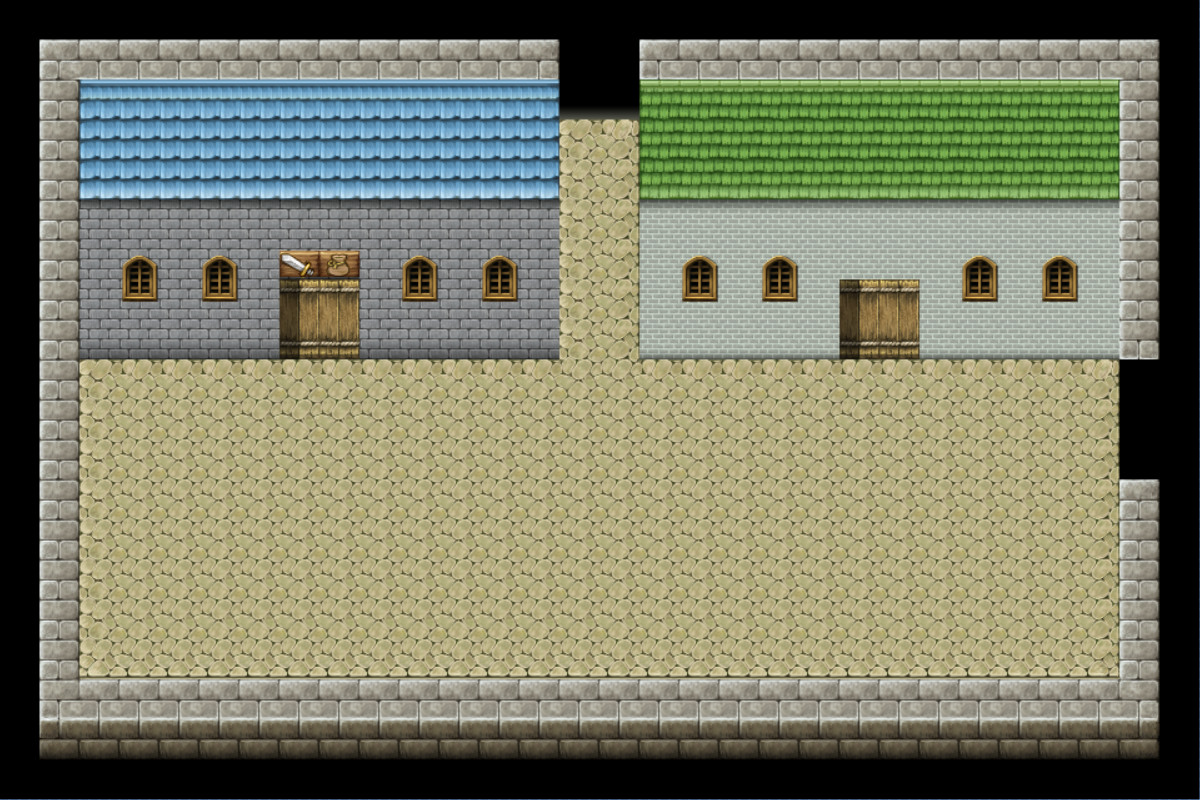
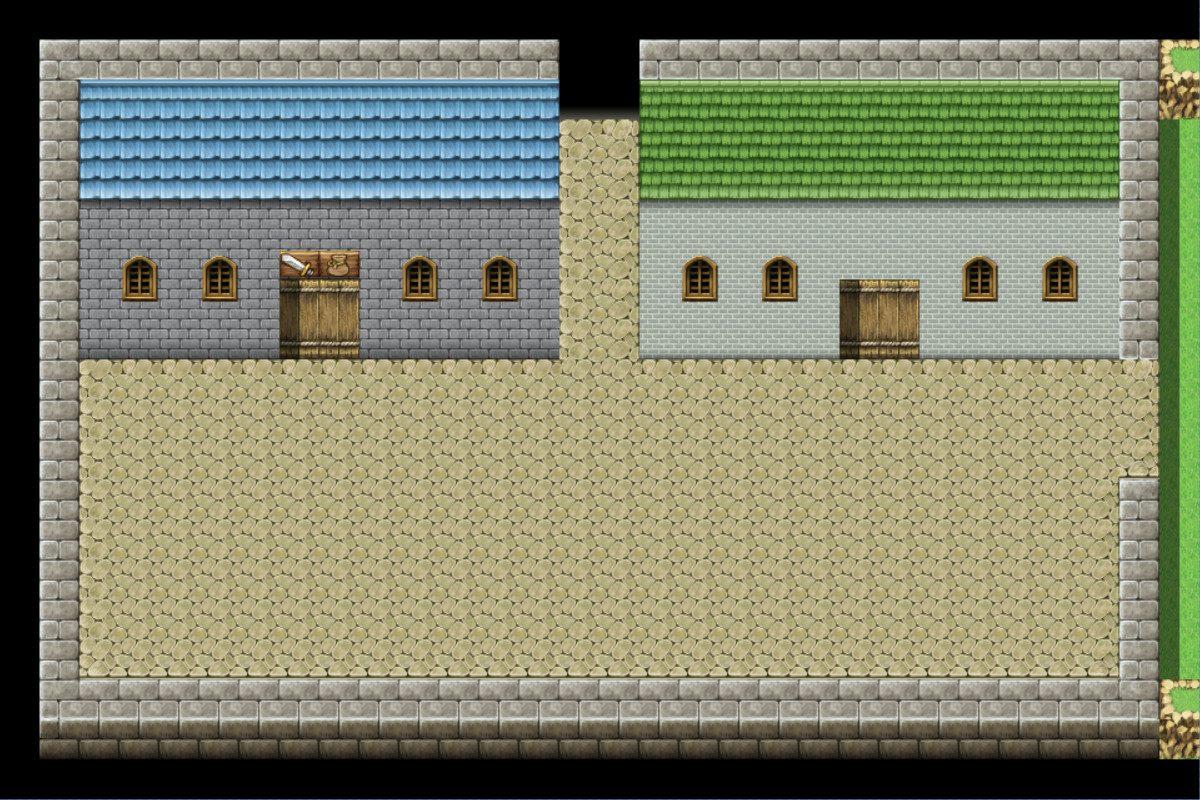
Added screen change

Changed region(s): [[0.925, 0.0312, 1.0, 0.9688]]

diff --git a/src/zeldiablo/Canvas.java b/src/zeldiablo/Canvas.java
@@ -59,7 +59,8 @@ public class Canvas extends JPanel implements Serializable {
     private boolean startScreen;
     private int startscreenCounter;
     World world;
-    boolean spawned, hunterfix;
+    boolean spawned;
+    InteractionObject tele1, tele2, tele3, tele4;
 
     /**
      * This constructor sets all the basics of the canvas, like size etc Then it
@@ -71,7 +72,7 @@ public class Canvas extends JPanel implements Serializable {
         size = new Dimension(1180, 780);
         setPreferredSize(size);
         imageDirectory = "images/";
-        bgPictureList = new String[]{"bg_matrix.jpg", "bg_town.jpg"};
+        bgPictureList = new String[]{"bg_matrix.jpg", "bg_town.jpg", "bg_arena.jpg", "bg_area1.jpg"};
         spriteList = new String[]{"dialogbox.png", "LevelUp.png", "inventory.png", "stats.png"};
         gameOver = false;
         gameoverCounter = 0;
@@ -256,6 +257,22 @@ public class Canvas extends JPanel implements Serializable {
 
     public void setStartscreenFalse() {
         startScreen = false;
+    }
+
+    public void setTeleporter1(InteractionObject tele) {
+        tele1 = tele;
+    }
+
+    public void setTeleporter2(InteractionObject tele) {
+        tele2 = tele;
+    }
+
+    public void setTeleporter3(InteractionObject tele) {
+        tele3 = tele;
+    }
+
+    public void setTeleporter4(InteractionObject tele) {
+        tele4 = tele;
     }
 
     /**
@@ -589,6 +606,11 @@ public class Canvas extends JPanel implements Serializable {
         chest1 = placeholderChest;
         chest2 = placeholderChest;
         chest3 = placeholderChest;
+        InteractionObject telePlaceholder = new InteractionObject(new Coordinates(-1000, -1000), 0, 0, "nothing", "Null");
+        tele1 = telePlaceholder;
+        tele2 = telePlaceholder;
+        tele3 = telePlaceholder;
+        tele4 = telePlaceholder;
     }
 
     /**
@@ -976,6 +998,19 @@ public class Canvas extends JPanel implements Serializable {
         }
     }
 
+    public void teleporterMethod() {
+        if (player.touches(tele1)) {
+//            System.out.println("tele1");
+            if (player.getMapID().equals("Zone_Town")) {
+                world.area1(this);
+            }
+            else if (player.getMapID().equals("Zone_Area1")) {
+                world.town(this);
+                player.setObjectPosition(new Coordinates(1060, 362));
+            }
+        }
+    }
+
     /**
      * This method holds all the methods that have to get called on every frame
      * (also known as tick) This method gets called every 20ms by the
@@ -984,6 +1019,7 @@ public class Canvas extends JPanel implements Serializable {
     private void doOnTick() {
 
         hitboxUpdate();
+        teleporterMethod();
         youShallNotPass();
         checkXP();
         player.levelUpAnimationFunction(player);
@@ -1425,6 +1461,11 @@ public class Canvas extends JPanel implements Serializable {
         drawInventory(g);
         drawLoot(g);
         drawStartMenu(g);
+
+        tele1.drawObjects(g);
+        tele2.drawObjects(g);
+        tele3.drawObjects(g);
+        tele4.drawObjects(g);
 
         if (getGameOver()) {
             Graphics2D g2d = (Graphics2D) g;

diff --git a/src/zeldiablo/World.java b/src/zeldiablo/World.java
@@ -60,5 +60,20 @@ public class World {
         canvas.getPlayer().setMapID("Zone_Town");
         canvas.createGameObjects();
         canvas.getPlayer().setObjectPosition(new Coordinates(600, 550));
+        canvas.setTeleporter1(new InteractionObject(new Coordinates(1120, 362), 40, 115, "nothing", "StartWeapon"));
+    }
+    
+    public void arena(Canvas canvas) {        
+        canvas.setBackground(2);
+        canvas.getPlayer().setMapID("Zone_Arena");        
+        canvas.createGameObjects();
+    }
+    
+    public void area1(Canvas canvas) {
+        canvas.setBackground(3);
+        canvas.getPlayer().setMapID("Zone_Area1");        
+        canvas.createGameObjects();
+        canvas.getPlayer().setObjectPosition(new Coordinates(80, 370));
+        canvas.setTeleporter1(new InteractionObject(new Coordinates(40, 362), 40, 115, "nothing", "StartWeapon"));
     }
 }

diff --git a/src/zeldiablo/InteractionObject.java b/src/zeldiablo/InteractionObject.java
@@ -67,11 +67,11 @@ public class InteractionObject extends GameObjects {
     @Override
     public void drawObjects(java.awt.Graphics g) {
 
-//        Graphics2D g2d = (Graphics2D) g;
-//        g2d.setColor(Color.BLUE);
-//        RoundRectangle2D spieler = new RoundRectangle2D.Double(getObjektPosition().getX(),
-//                getObjektPosition().getY(),
-//                getWidth(), getHeight(), 3, 3);
+        Graphics2D g2d = (Graphics2D) g;
+        g2d.setColor(Color.BLUE);
+        RoundRectangle2D spieler = new RoundRectangle2D.Double(getObjectPosition().getX(),
+                getObjectPosition().getY(),
+                getWidth(), getHeight(), 3, 3);
 //        g2d.fill(spieler);
         sprite.paintIcon(null, g, getObjectPosition().getX(), getObjectPosition().getY());
     }
